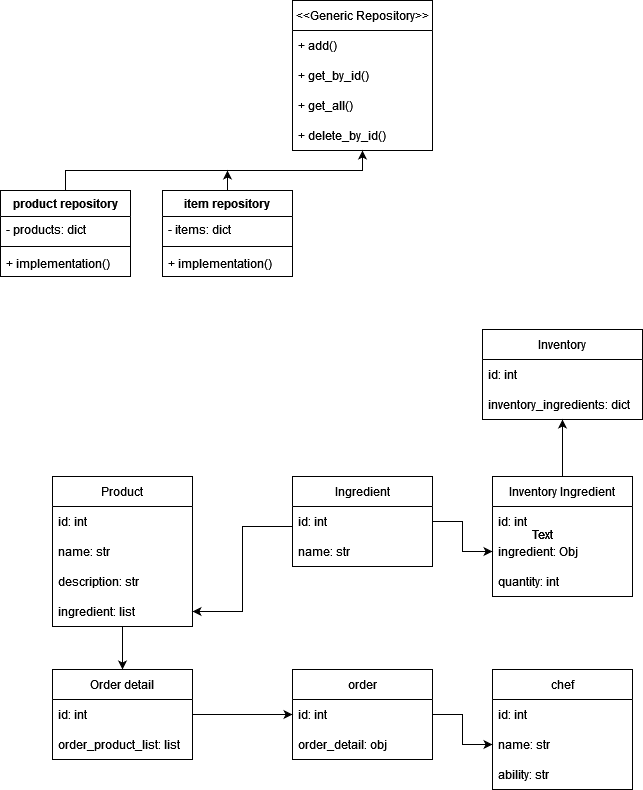
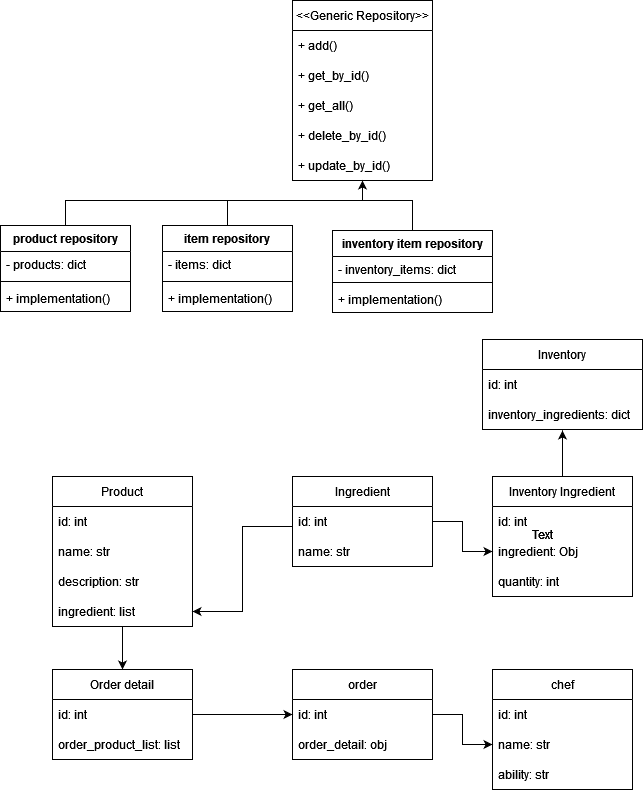
Adding inventory ingredient repository description to readme file

diff --git a/README.md b/README.md
@@ -20,10 +20,11 @@
   developer in order to implement generic operation over a given entity.
 * Product Repository - This repository will be used to implement operations to manages products entities.
 * Item Repository - This repository will be used to implement operations to manages items entities
+* Inventory Item Repository - This repository will be used to implement operations to manages inventory items entities. 
 
 UML Diagram:
 
-![UML](https://github.com/eapg/EA_RESTAURANT/blob/feature/item-repository/UML_Diagram.png?raw=true)
+![UML](https://github.com/eapg/EA_RESTAURANT/blob/feature/inventory-item-repository/UML_Diagram.png?raw=true)
 
 ## Project Setup
 
